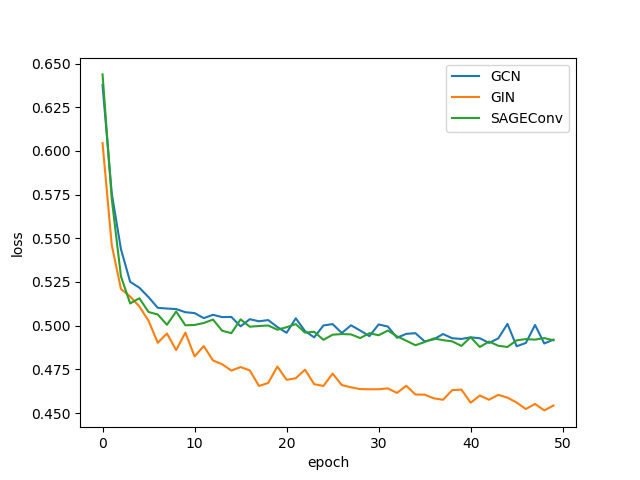
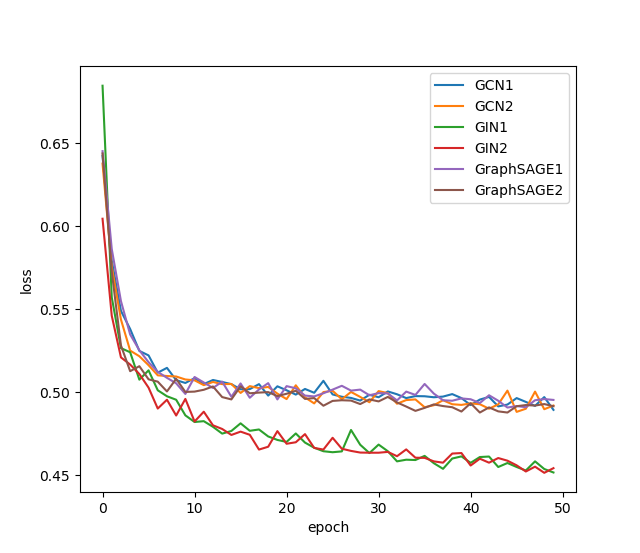
Add code in

diff --git a/model/BaseModel.py b/model/BaseModel.py
@@ -8,19 +8,18 @@ from torch_geometric.nn import global_mean_pool as gap, global_max_pool as gmp
 class Net(torch.nn.Module):
     def __init__(self, data, dataset):
         super(Net, self).__init__()
-        # self.mlp1 = nn.Sequential(
-        #     nn.Linear(dataset.num_features, 128),
-        #     nn.Linear(128, 128)
-        # )
-        # self.mlp2 = nn.Sequential(
-        #     nn.Linear(128, 128),
-        #     nn.Linear(128, 64)
-        # )
-        # self.conv1 = GINConv(self.mlp1)
-        # self.conv2 = GINConv(self.mlp2)
-        self.conv1 = GCNConv(dataset.num_features, 128)
-        self.conv2 = GCNConv(128, 64)
-
+        self.mlp1 = nn.Sequential(
+            nn.Linear(dataset.num_features, 128),
+            nn.Linear(128, 128)
+        )
+        self.mlp2 = nn.Sequential(
+            nn.Linear(128, 128),
+            nn.Linear(128, 64)
+        )
+        # self.conv1 = GCNConv(dataset.num_features, 128)
+        # self.conv2 = GCNConv(128, 64)
+        self.conv1 = GINConv(self.mlp1)
+        self.conv2 = GINConv(self.mlp2)
         self.data = data
         self.dataset = dataset
 
@@ -39,31 +38,33 @@ class Net(torch.nn.Module):
 class AidsModel(torch.nn.Module):
     def __init__(self, in_channels):
         super(AidsModel, self).__init__()
-        # self.mlp1 = nn.Sequential(
-        #     nn.Linear(in_channels, 64),
-        #     nn.ReLU(),
-        #     nn.Linear(64, 64)
-        # )
-        # self.mlp2 = nn.Sequential(
-        #     nn.Linear(64, 64),
-        #     nn.ReLU(),
-        #     nn.Linear(64, 64)
-        # )
-        self.conv1 = GCNConv(in_channels, 128)
-        self.conv2 = GCNConv(128, 64)
+        self.mlp1 = nn.Sequential(
+            nn.Linear(in_channels, 64),
+            nn.ReLU(),
+            nn.Linear(64, 64)
+        )
+        self.mlp2 = nn.Sequential(
+            nn.Linear(64, 64),
+            nn.ReLU(),
+            nn.Linear(64, 64)
+        )
+        self.conv1 = GINConv(self.mlp1)
+        # self.pool1 = SAGPooling(64, min_score=1e-3, GNN=GCNConv)
+        self.conv2 = GINConv(self.mlp2)
         # self.pool2 = SAGPooling(64, min_score=1e-3, GNN=GCNConv)
-        self.lin1 = nn.Linear(64, 1)
-        # self.lin2 = nn.Linear(16, 1)
+        self.lin1 = nn.Linear(64, 16)
+        self.lin2 = nn.Linear(16, 1)
         self.sig = nn.Sigmoid()
 
     def forward(self, data):
         x, edge_index, batch = data.x, data.edge_index, data.batch
         # print(x.shape)
-        x = F.relu(self.conv1(x.float(), edge_index))
+
+        x = F.relu(self.conv1(x, edge_index))
         # x, edge_index, _, batch, _, _ = self.pool1(x, edge_index, None, batch)
-        x = F.relu(self.conv2(x.float(), edge_index))
+        x = F.relu(self.conv2(x, edge_index))
         # x, edge_index, _, batch, _, _ = self.pool2(x, edge_index, None, batch)
         x = F.relu(self.lin1(x))
-        # x = F.relu(self.lin2(x))
+        x = F.relu(self.lin2(x))
         x = self.sig(x)
         return x

diff --git a/train_aids.py b/train_aids.py
@@ -8,6 +8,7 @@ from torch_geometric.utils import train_test_split_edges
 from AidsDataset import AidsDataset
 from model.BaseModel import AidsModel
 import numpy as np
+import matplotlib.pyplot as plt
 
 def train():
     model.train()
@@ -18,7 +19,7 @@ def train():
         optimizer.zero_grad()
         output = model(data)
         label = data.y.to(device)
-        loss = F.binary_cross_entropy(output, label)
+        loss = F.binary_cross_entropy(output.float(), label.float())
         loss.backward()
         total_loss += data.num_graphs * loss.item()
         optimizer.step()
@@ -57,6 +58,7 @@ if __name__ == "__main__":
     model = AidsModel(dataset.num_features).to(device)
     optimizer = torch.optim.Adam(params=model.parameters(), lr=1e-3)
 
+    f = open("GINConv.txt", "w")
     best_val_perf = test_perf = 0
     for epoch in range(1, 51):
         train_loss = train()
@@ -65,3 +67,6 @@ if __name__ == "__main__":
         test_acc = test(test_loader)
         log = 'Epoch: {:03d}, Loss: {:.4f}, Train: {:.4f}, Val: {:.4f}, Test: {:.4f}'
         print(log.format(epoch, train_loss, train_acc, val_acc, test_acc))
+        f.write(log.format(epoch, train_loss, train_acc, val_acc, test_acc) + '\n')
+    f.close()
+

diff --git a/plot.py b/plot.py
@@ -2,7 +2,7 @@ import numpy as np
 import matplotlib.pyplot as plt
 
 
-files = ['GCN1', 'GCN2', 'GIN', 'SAGEConv']
+files = ['GCN1', 'GCN2', 'GIN1',  'GIN2', 'GraphSAGE1', 'GraphSAGE2']
 
 epochs = 50
 plt.figure(0)
